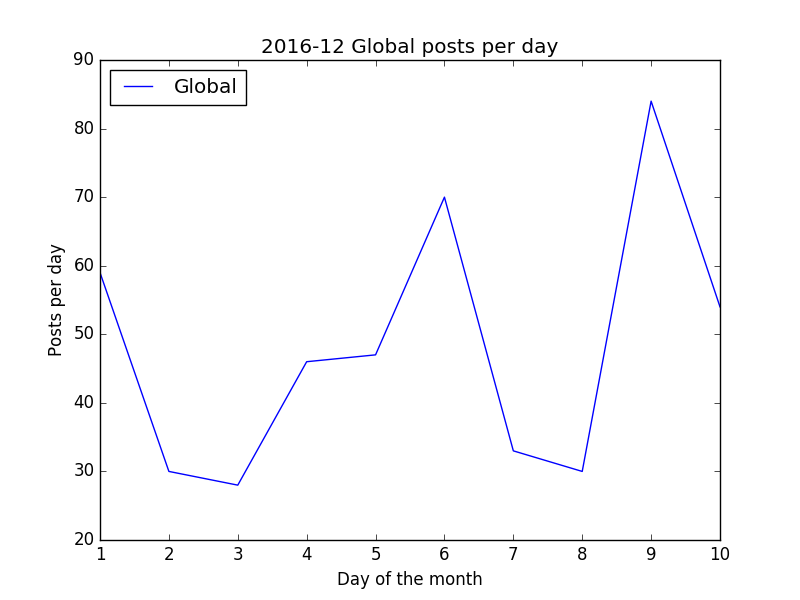
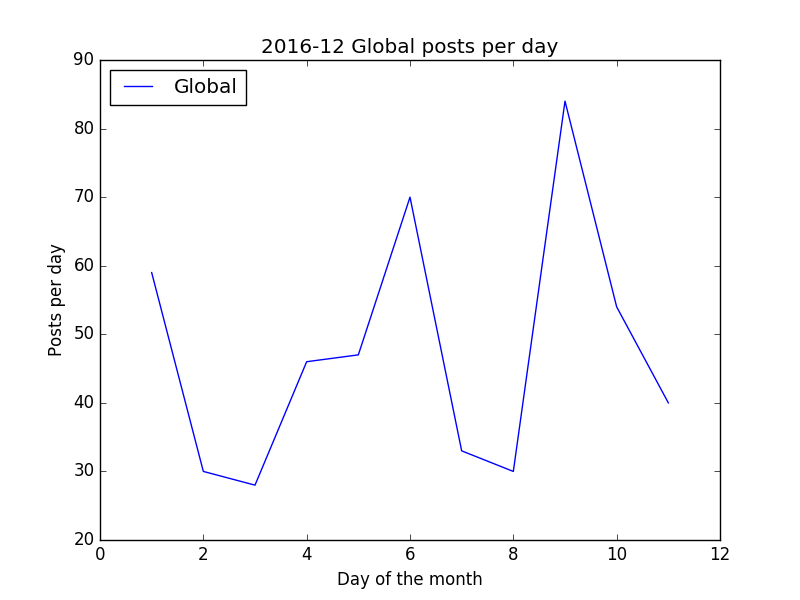
Global graphs implemented

diff --git a/templates/stats.html b/templates/stats.html
@@ -18,6 +18,7 @@
 
   {% endblock %}
   {% block body %}
+  <img src="/static/graphs/Monthly_GlobalGraph.png" />
   {% endblock %}
 </body>
 </html>

diff --git a/scrappers/nntp_posts.py b/scrappers/nntp_posts.py
@@ -57,7 +57,7 @@ class Scrapper(object):
 
     def ukko_scrapper(self):
         ukko_urls = []
-        for n in range(1): ## Change to scrap thru more than 10 pages
+        for n in range(11): ## Change to scrap thru more than 10 pages
             ukko_urls.append('ukko-%d.html' % n)
         req = requests.get(self.node + 'ukko.html')
         soup = BeautifulSoup(req.content,'html.parser')
@@ -100,7 +100,7 @@ class Scrapper(object):
                 timex = raw_data.split('T')[1].split('-')[0]
                 if "Z" in timex: # For some reason sometimes Z is added
                     timex = timex.strip("Z")
-                subject = str(soup.find('span',{"class":"subject"}).text)
+                subject = soup.find('span',{"class":"subject"}).text.encode('utf-8')
                 try:
                     message = str(soup.find('div',{'class':'post_body'}).text.encode('ascii','ignore'))
                 except:
@@ -115,12 +115,13 @@ class Scrapper(object):
                 try:
                     DBconnector().dbInsert(table,is_op,board,origin,author,msgid,data,timex,subject,message,tripcode,replynumber,iD,postid)
                     threads_new_count += 1
-                except MySQLdb.IntegrityError: ## If record is already in the DB
+                except (MySQLdb.IntegrityError,MySQLdb.ProgrammingError): ## If record is already in the DB or the date is earlier than 01.2015
                     threads_skipped_count += 1
 
-                boards_list = DBconnector().dbListBoards()
-                if board not in boards_list:
+                try:
                     DBconnector().dbInsertBoard(board)
+                except MySQLdb.IntegrityError:
+                    pass
 
                 try: ## If thread has any replies
                     for item in soup.find_all('div',{'class':'post reply'}):
@@ -138,7 +139,7 @@ class Scrapper(object):
                         timex = raw_data.split('T')[1].split('-')[0]
                         if "Z" in timex: # For some reason sometimes Z is added
                             timex = timex.strip("Z")
-                        subject = str(item.find('span',{"class":"subject"}).text)
+                        subject = item.find('span',{"class":"subject"}).text.encode('utf-8')
                         message = str(item.find('div',{'class':'post_body'}).text.encode('ascii','ignore'))
                         postid = str(item.find('a',{'class':'postno'}).text.strip('>'))
                         try:
@@ -148,11 +149,13 @@ class Scrapper(object):
                         try:
                             DBconnector().dbInsert(table,is_op,board,origin,author,msgid,data,timex,subject,message,tripcode,replynumber,iD,postid)
                             posts_new_count += 1
-                        except MySQLdb.IntegrityError: ## If record is already in the DB
+                        except (MySQLdb.IntegrityError,MySQLdb.ProgrammingError): ## If record is already in the DB or the date is earlier than 01.2015
                             posts_skipped_count += 1
-                            
-                        if board not in boards_list:
+
+                        try:
                             DBconnector().dbInsertBoard(board)
+                        except MySQLdb.IntegrityError:
+                            pass
                 except:
                     pass
             except TypeError: ## Thread cant be scrapped :(

diff --git a/static/graphs/global_graph_plotter.py b/static/graphs/global_graph_plotter.py
@@ -24,23 +24,70 @@ class DbConnector(): # Used for stats.html
 
         return tables
 
-now= datetime.datetime.now()
-year = str(now.year)
-month = str(now.month)
+    def dbGetTables(self):
+        dbconnect = MySQLdb.connect(host=self.host,db=self.db_name,user=self.user,passwd=self.passwd)
+        cur = dbconnect.cursor()
+        command = "SHOW TABLES;"
+        cur.execute(command)
+        tables = cur.fetchall()
+        dbconnect.close()
+        tables_list = []
+        for item in tables:
+            item = str(item).strip("()',")
+            tables_list.append(item)
 
-days = []
-posts = []
-posts_tulpe = DbConnector().dbGetPosts(year,month)
-for item in posts_tulpe:
-    days.append(int(item[0][-2:]))
-    posts.append(int(item[1]))
+        return tables_list
 
-plt.figure()
-plt.plot(days,posts,label="Global")
-plt.ylabel("Posts per day")
-plt.xlabel("Day of the month")
-title = "%s-%s Global posts per day" %(year,month)
-plt.title(title)
-plt.legend(loc="upper left")
-filename = "%s-%s_GlobalGraph.png" %(year,month)
-plt.savefig(filename)
+    def dbGetMonthPosts(self,table):
+        dbconnect = MySQLdb.connect(host=self.host,db=self.db_name,user=self.user,passwd=self.passwd)
+        cur = dbconnect.cursor()
+        command = "SELECT * FROM %s" % table
+        cur.execute(command)
+        posts = cur.rowcount
+        dbconnect.close()
+        return posts
+
+class Plotter(object):
+    def daily(self):
+        now= datetime.datetime.now()
+        year = str(now.year)
+        month = str(now.month)
+
+        days = []
+        posts = []
+        posts_tulpe = DbConnector().dbGetPosts(year,month)
+        for item in posts_tulpe:
+            days.append(int(item[0][-2:]))
+            posts.append(int(item[1]))
+
+        plt.figure()
+        plt.plot(days,posts,label="Global")
+        plt.ylabel("Posts per day")
+        plt.xlabel("Day of the month")
+        title = "%s-%s Global posts per day" %(year,month)
+        plt.title(title)
+        plt.legend(loc="upper left")
+        filename = "%s-%s_GlobalGraph.png" %(year,month)
+        plt.savefig(filename)
+
+    def monthly(self):
+        tables = DbConnector().dbGetTables()[-13:-3]
+        month=[]
+        posts=[]
+
+        for table in tables:
+            month.append(int(table[-2:]))
+            posts.append(int(DbConnector().dbGetMonthPosts(table)))
+
+        plt.figure()
+        plt.plot(month,posts,label="Global monthly")
+        plt.ylabel("Posts per month")
+        plt.xlabel("Month")
+        title = "Global posts per month"
+        plt.title(title)
+        plt.legend(loc="upper left")
+        filename = "Monthly_GlobalGraph.png"
+        plt.savefig(filename)
+
+Plotter().daily()
+Plotter().monthly()
